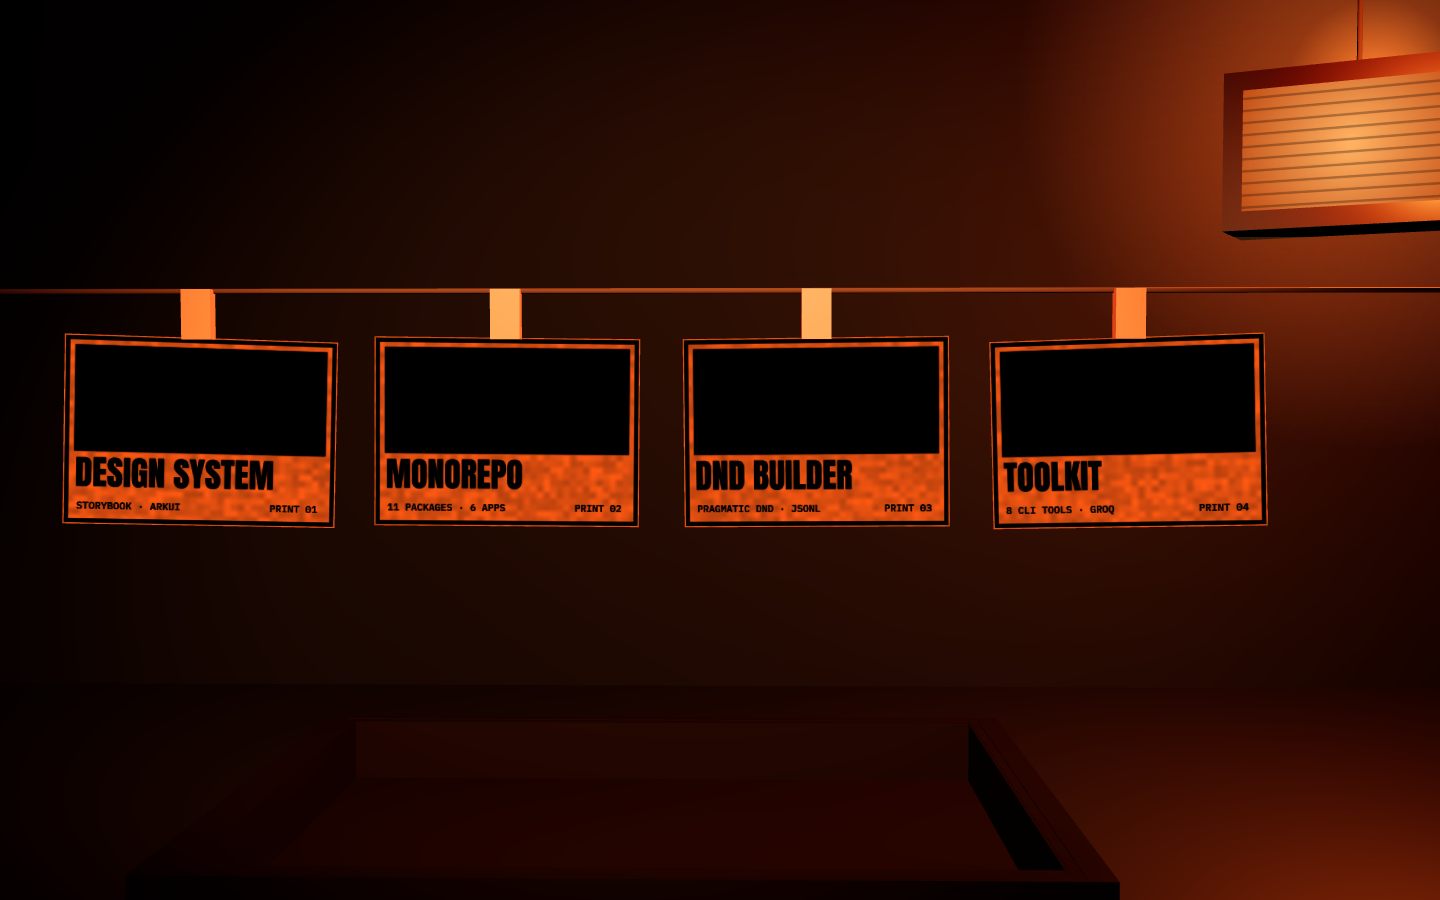
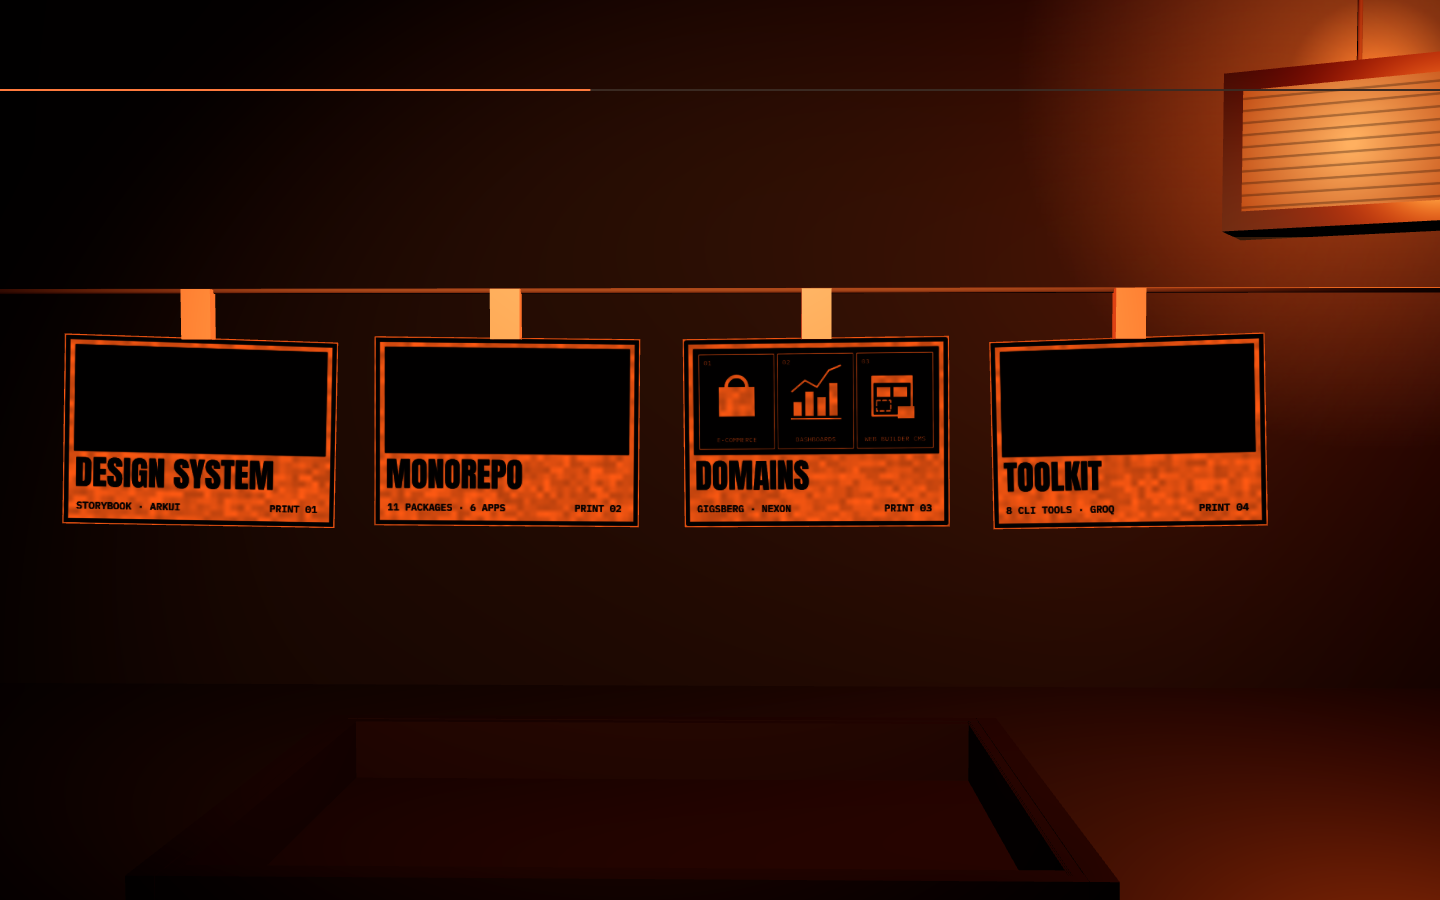
PF-68: Work Print 03 becomes Domains
Replace the drag-and-drop builder case with one Domains print and card:
three panels (E-commerce, Dashboards, Web builder CMS), no tags or case
link. Update the Work atlas, stills d-2/m-2, and structure copy checks.

Changed region(s): [[0.5, 0.4044, 0.6562, 0.4978], [0.5, 0.4978, 0.5938, 0.5911]]

diff --git a/src/_pages/home/lib/atlases.ts b/src/_pages/home/lib/atlases.ts
@@ -120,8 +120,88 @@ const sheet = quad((x, w, h, i) => {
   x.fillText(`${String(i + 1).padStart(2, "0")}A`, w - 150, 120);
 });
 
+/** Print 03 "Domains": three contact-sheet frames on the dark plate (PF-68). */
+const drawDomains = (x: Context2D, w: number, h: number): void => {
+  const [title, meta] = at(sceneText.cases, 2);
+  x.fillStyle = INK;
+  x.fillRect(40, 40, w - 80, h * 0.56);
+  const pad = 22;
+  const gap = 14;
+  const top = 40 + pad;
+  const pw = (w - 80 - 2 * pad - 2 * gap) / 3;
+  const ph = h * 0.56 - 2 * pad;
+  const labels = ["E-COMMERCE", "DASHBOARDS", "WEB BUILDER CMS"] as const;
+  for (let k = 0; k < 3; k += 1) {
+    const px = 40 + pad + k * (pw + gap);
+    const cx = px + pw / 2;
+    const cy = top + ph * 0.44;
+    x.strokeStyle = PAPER;
+    x.lineWidth = 4;
+    x.setLineDash([]);
+    x.strokeRect(px, top, pw, ph);
+    x.fillStyle = PAPER;
+    x.font = '500 26px "IBM Plex Mono"';
+    x.fillText(`0${k + 1}`, px + 18, top + 40);
+    x.lineCap = "round";
+    x.lineJoin = "round";
+    if (k === 0) {
+      x.fillRect(cx - 70, cy - 36, 140, 116);
+      x.lineWidth = 16;
+      x.beginPath();
+      x.arc(cx, cy - 36, 40, PI, 2 * PI);
+      x.stroke();
+    } else if (k === 1) {
+      [56, 96, 74, 128].forEach((bh, b) => {
+        x.fillRect(cx - 86 + b * 46, cy + 80 - bh, 34, bh);
+      });
+      x.lineWidth = 9;
+      x.beginPath();
+      for (const [j, [dx, dy]] of (
+        [
+          [-90, 2],
+          [-40, -40],
+          [6, -14],
+          [52, -78],
+          [96, -96],
+        ] as const
+      ).entries()) {
+        if (j) x.lineTo(cx + dx, cy + dy - 18);
+        else x.moveTo(cx + dx, cy + dy - 18);
+      }
+      x.stroke();
+      x.fillRect(cx - 96, cy + 86, 196, 8);
+    } else {
+      x.lineWidth = 10;
+      x.strokeRect(cx - 86, cy - 70, 150, 150);
+      x.fillRect(cx - 86, cy - 70, 150, 26);
+      x.fillRect(cx - 70, cy - 30, 54, 40);
+      x.fillRect(cx - 6, cy - 30, 54, 40);
+      x.lineWidth = 7;
+      x.setLineDash([14, 10]);
+      x.strokeRect(cx - 70, cy + 22, 54, 40);
+      x.setLineDash([]);
+      x.fillRect(cx + 10, cy + 44, 66, 48);
+    }
+    x.font = '500 26px "IBM Plex Mono"';
+    x.textAlign = "center";
+    x.fillText(at(labels, k), cx, top + ph - 26);
+    x.textAlign = "left";
+  }
+  x.fillStyle = INK;
+  x.font = '400 130px "Anton"';
+  x.fillText(title, 44, h * 0.8);
+  x.font = '500 38px "IBM Plex Mono"';
+  x.fillText(meta, 50, h * 0.92);
+  x.fillText("PRINT 03", w - 250, h * 0.92);
+};
+
 /** No screenshots at launch (build plan Q4): the dark plate is plain print art. */
 const cases = quad((x, w, h, i) => {
+  if (i === 2) {
+    drawDomains(x, w, h);
+    border(x, w, h);
+    return;
+  }
   const [title, meta] = at(sceneText.cases, i);
   x.fillStyle = INK;
   x.fillRect(40, 40, w - 80, h * 0.56);

diff --git a/tests/e2e/structure.spec.ts b/tests/e2e/structure.spec.ts
@@ -30,7 +30,7 @@ test.describe("structure and copy", () => {
       .evaluateAll((els) => els.map((e) => e.getAttribute("href")));
     expect(navHrefs).toEqual(SECTION_IDS.map((id) => `#${id}`));
     const headed = await page.evaluate(() =>
-      ["#work li", "#services li", "#process li"].map((sel) =>
+      ["#work .work__case", "#services li", "#process li"].map((sel) =>
         Array.from(document.querySelectorAll(sel)).map((li) => li.querySelectorAll("h3").length),
       ),
     );
@@ -82,7 +82,14 @@ test.describe("structure and copy", () => {
       "Frame 03 · Work · on the drying line",
       "A cross-project component library built on Atomic Design with Storybook and ArkUI, so every app shares the same component APIs and accessibility patterns.",
       "Brought 11 packages and 6 apps into one pnpm workspace with Turborepo, so teams could build in parallel without stepping on each other.",
-      "A drag-and-drop page builder on Pragmatic DnD that streams large datasets in as JSON Lines.",
+      "Domains",
+      "Print 03 · Gigsberg · Nexon Dev Vina",
+      "E-commerce",
+      "Work for Gigsberg.",
+      "Dashboards",
+      "Charts and graphs for analysing users' responses, in Nexon internal tools.",
+      "Web builder CMS",
+      "Built at Nexon Dev Vina.",
       "A monorepo of 8 developer CLI tools: git activity reports, AI code review, commit messages, port conflicts and mock data, powered by the Groq API.",
       "Frame 04 · Services · the chemistry",
       "From $500 USD · 7 days – 1 month · both depending on complexity",
@@ -123,6 +130,10 @@ test.describe("structure and copy", () => {
       "Project type",
       "<select",
       'type="radio"',
+      // PF-68: drag-and-drop builder case is gone from the Work DOM.
+      "Drag-and-drop builder",
+      "A drag-and-drop page builder on Pragmatic DnD that streams large datasets in as JSON Lines.",
+      "Pragmatic DnD · Streaming · JSON Lines",
     ]) {
       expect(html).not.toContain(stale);
     }

diff --git a/src/entities/profile/model/content.ts b/src/entities/profile/model/content.ts
@@ -18,13 +18,21 @@ export interface Education {
   years: string;
 }
 
+export interface WorkDomain {
+  title: string;
+  line: string;
+}
+
 export interface WorkCase {
   title: string;
   context: string;
-  copy: string;
-  tags: string;
+  /** Standard cases have a paragraph and tags. The Domains card uses `domains` instead. */
+  copy?: string;
+  tags?: string | null;
   /** TODO(owner): case URL. The "Read the case" link is hidden while null (build plan Q4). */
   href: string | null;
+  /** Present on the Domains card (Print 03); no tags line and no case link. */
+  domains?: readonly WorkDomain[];
 }
 
 export interface Service {
@@ -150,10 +158,17 @@ export const work = {
       href: null,
     },
     {
-      title: "Drag-and-drop builder",
-      context: "Nexon Dev Vina · 2023 – 2025",
-      copy: "A drag-and-drop page builder on Pragmatic DnD that streams large datasets in as JSON Lines.",
-      tags: "Pragmatic DnD · Streaming · JSON Lines",
+      title: "Domains",
+      context: "Gigsberg · Nexon Dev Vina",
+      domains: [
+        { title: "E-commerce", line: "Work for Gigsberg." },
+        {
+          title: "Dashboards",
+          line: "Charts and graphs for analysing users' responses, in Nexon internal tools.",
+        },
+        { title: "Web builder CMS", line: "Built at Nexon Dev Vina." },
+      ],
+      tags: null,
       href: null,
     },
     {
@@ -164,7 +179,7 @@ export const work = {
       href: null,
     },
   ] satisfies WorkCase[],
-} as const;
+};
 
 export const services = {
   eyebrow: "Frame 04 · Services · the chemistry",
@@ -284,7 +299,7 @@ export const sceneText = {
   cases: [
     ["DESIGN SYSTEM", "STORYBOOK · ARKUI"],
     ["MONOREPO", "11 PACKAGES · 6 APPS"],
-    ["DND BUILDER", "PRAGMATIC DND · JSONL"],
+    ["DOMAINS", "GIGSBERG · NEXON"],
     ["TOOLKIT", "8 CLI TOOLS · GROQ"],
   ],
   labels: ["WEB APP", "DESIGN SYS", "DASHBOARDS", "ARCHITECTURE"],
